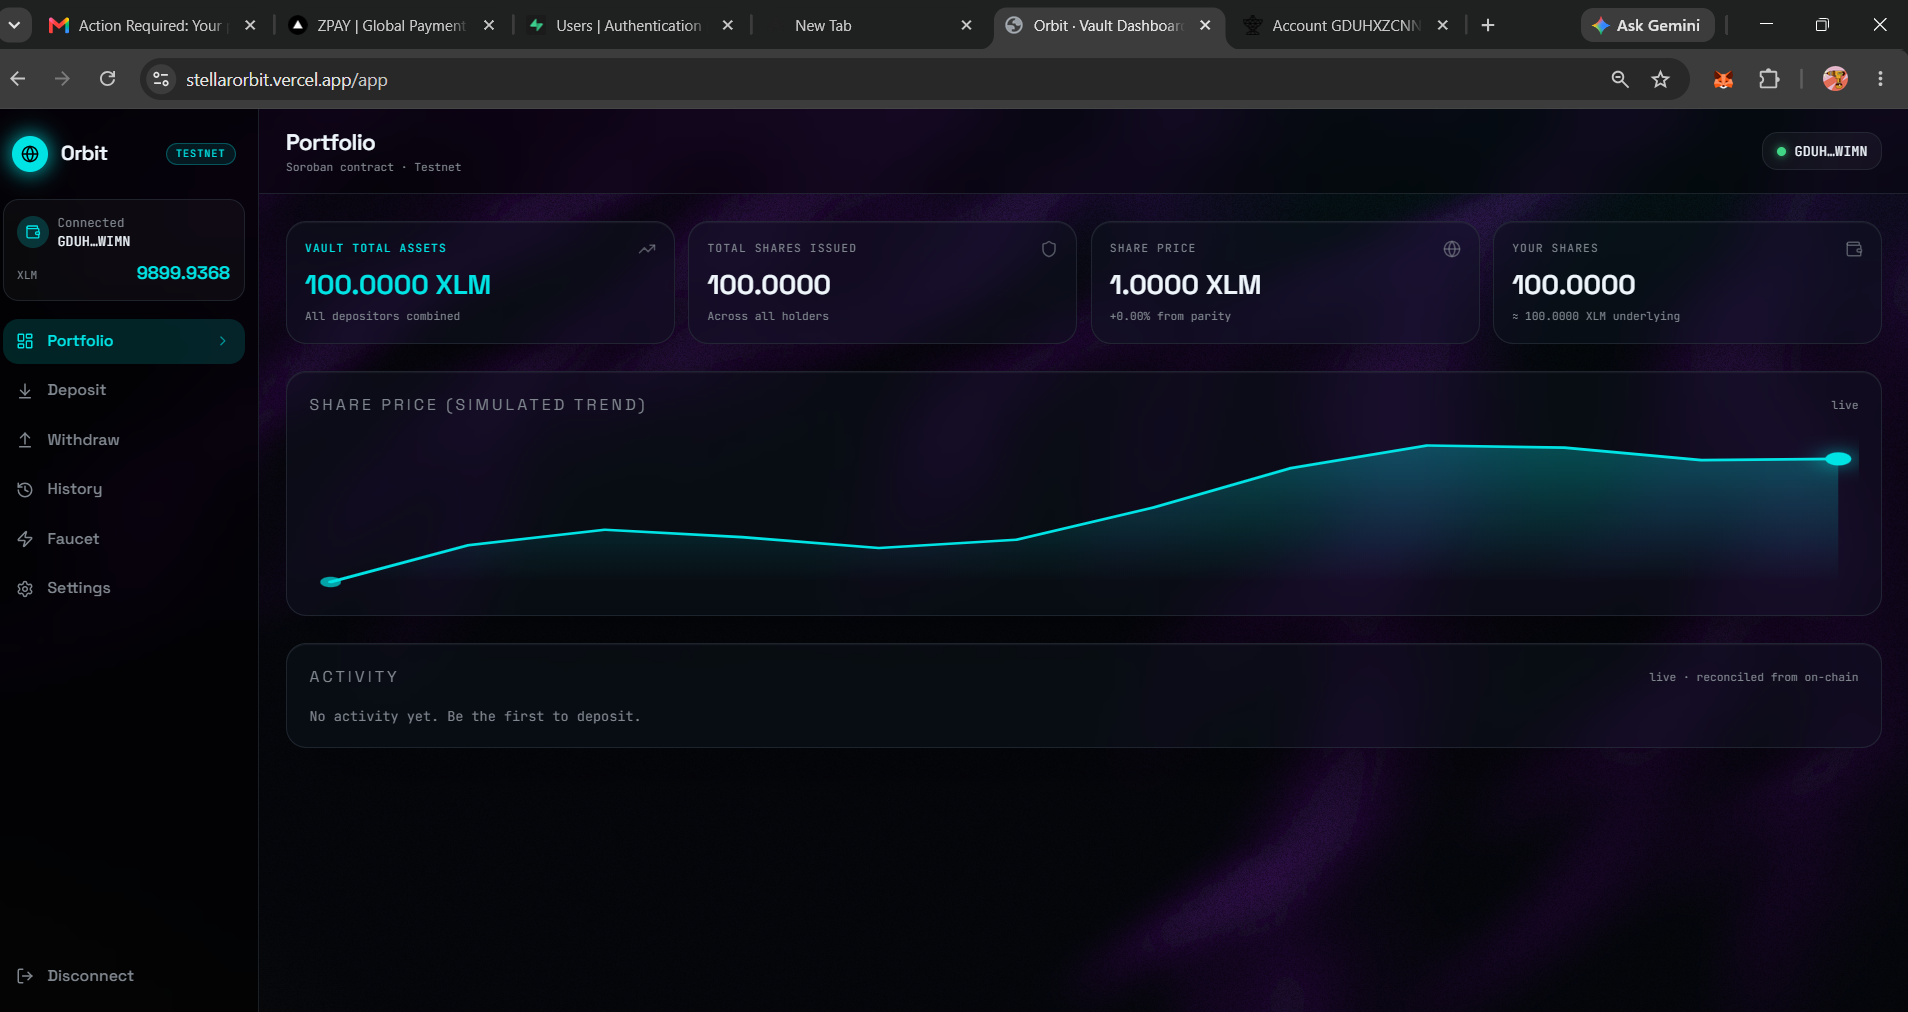
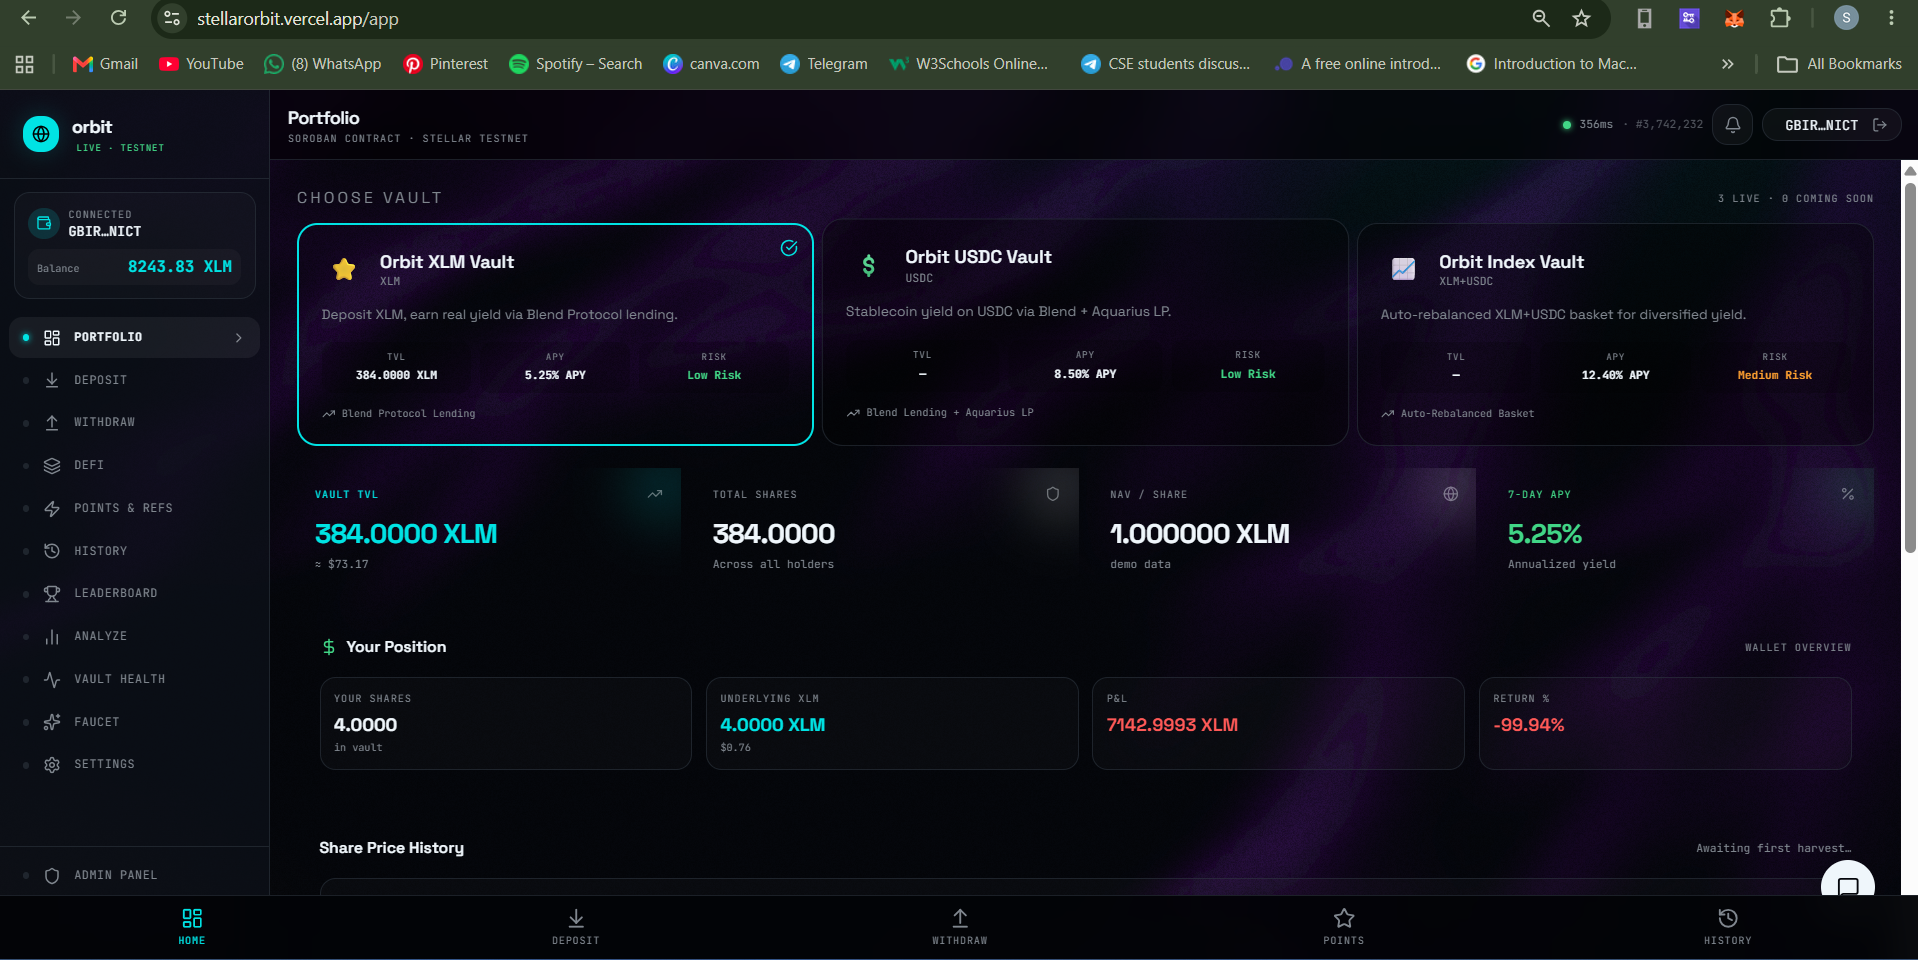
docs: put old screenshots first (landing page first), add updated dashboard screenshot, new screenshots after

diff --git a/README.md b/README.md
@@ -61,6 +61,36 @@ All contracts are live on **Stellar Testnet** and fully functional.
 
 ## 🖼️ Screenshots
 
+### 🏠 Landing Page
+![Landing Page](docs/screenshots/landing.png)
+> The Orbit landing page hero with orbit animation, key stats, and primary CTA to get started.
+
+---
+
+### 🖥️ App Dashboard
+![Dashboard](docs/screenshots/dashboard.png)
+> The full vault dashboard — balances, share position, oracle price panel, and recent activity feed.
+
+---
+
+### 💸 Deposit Flow
+![Deposit Success](docs/screenshots/Deposit.png)
+> Deposit flow showing XLM input, share preview, and the success card with transaction hash after completion.
+
+---
+
+### 🔗 Transaction Hash
+![Transaction Hash](docs/screenshots/Transaction%20Hash.png)
+> A close-up of the on-chain transaction hash shown after every deposit or withdrawal.
+
+---
+
+### ⚙️ CI/CD Pipeline
+![CI/CD Pipeline](docs/screenshots/CI%20CD%20pipeline.png)
+> GitHub Actions workflow showing the automated build, test, and deploy pipeline for the smart contracts and frontend.
+
+---
+
 ### 📊 Analytics Dashboard
 ![Analytics Dashboard](Screenshots/Analytic%20%20Dashboard.png)
 > Real-time TVL, deposit volume, and multi-day APY charts powered by live Soroban event polling — no backend indexer required.
@@ -112,36 +142,6 @@ All contracts are live on **Stellar Testnet** and fully functional.
 ### 💳 Transaction Details
 ![Transaction](Screenshots/Transaction.png)
 > On-chain transaction confirmation card showing your deposit amount, shares minted, and a direct link to the Stellar Explorer.
-
----
-
-### 🏠 Landing Page
-![Landing Page](docs/screenshots/landing.png)
-> The Orbit landing page hero with orbit animation, key stats, and primary CTA to get started.
-
----
-
-### 💸 Deposit Flow
-![Deposit Success](docs/screenshots/Deposit.png)
-> Deposit flow showing XLM input, share preview, and the success card with transaction hash after completion.
-
----
-
-### 🖥️ App Dashboard
-![Dashboard](docs/screenshots/dashboard.png)
-> The full vault dashboard — balances, share position, oracle price panel, and recent activity feed.
-
----
-
-### 🔗 Transaction Hash
-![Transaction Hash](docs/screenshots/Transaction%20Hash.png)
-> A close-up of the on-chain transaction hash shown after every deposit or withdrawal.
-
----
-
-### ⚙️ CI/CD Pipeline
-![CI/CD Pipeline](docs/screenshots/CI%20CD%20pipeline.png)
-> GitHub Actions workflow showing the automated build, test, and deploy pipeline for the smart contracts and frontend.
 
 ---
 